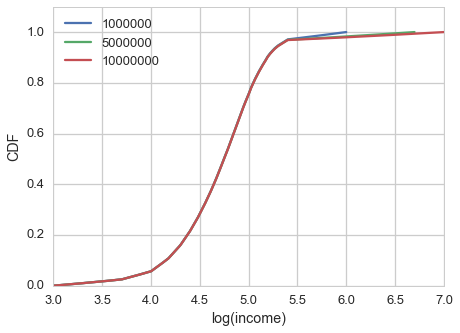
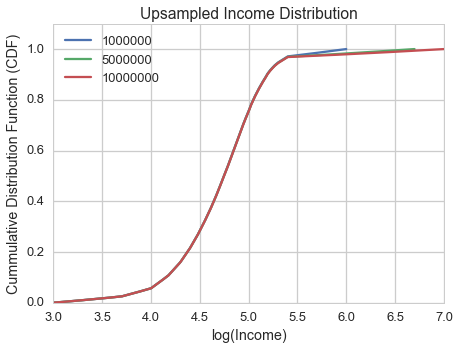
Finished question 6-1

diff --git a/statistics/6-1-household_income.md b/statistics/6-1-household_income.md
@@ -5,7 +5,7 @@ The distribution of income is famously skewed to the right. In this exercise, we
 
 The Current Population Survey (CPS) is a joint effort of the Bureau of Labor Statistics and the Census Bureau to study income and related variables. Data collected in 2013 is available from the Census Burea’s website. I downloaded hinc06.xls, which is an Excel spreadsheet with information about household income, and converted it to hinc06.csv, a CSV file you will find in the repository for this book. You will also find hinc2.py, which reads this file and transforms the data.
 
-The dataset is in the form of a series of income ranges and the number of respondents who fell in each range. The lowest range includes respondents who reported annual household income "Under \$5000." The highest range includes respondents who made "$250,000 or more."
+The dataset is in the form of a series of income ranges and the number of respondents who fell in each range. The lowest range includes respondents who reported annual household income "Under \$5,000." The highest range includes respondents who made "\$250,000 or more."
 
 To estimate mean and other statistics from these data, we have to make some assumptions about the lower and upper bounds, and how the values are distributed in each range. hinc2.py provides InterpolateSample, which shows one way to model this data. It takes a DataFrame with a column, income, that contains the upper bound of each range, and freq, which contains the number of respondents in each frame.
 
@@ -18,22 +18,26 @@ Compute the median, mean, skewness and Pearson’s skewness of the resulting sam
 This markdown file has been converted from a Jupyter notebook using [convert_notebooks_to_markdown.py](./convert_notebooks_to_markdown.py).
 
 
-# - [ ] Finish text for this question
-
 # Answer
 
+Income levels were upsampled assuming a base-10 log-linear relationship. The effect of different upper income levels (\$1,000,000, \$5,000,000, and \$10,000,000) on statistical parameters was determined.
+
+Increasing the only maximum income level during upsampling has the expected effect of increasing mean, skew, and the fraction of households with incomes below the mean. Median is invariant regardless of upper income, which is as expected since only the highest income bin is being changed and the number of samples in this bin does not vary.
+
+Pearson's skew **decreases** when the maximum income level is increased. Conceptually, this is unexpected but the likely explanation is that the standard deviation increase overwhelms the difference between the mean and median. For this reason, Pearson's skew may not be an ideal statistic for determining differences between log-linear data.
 
 
 
 
-INSERT TEXT HERE
 
-|               |   1000000 |   5000000 |   10000000 |
-|:--------------|----------:|----------:|-----------:|
-| mean          | 74278.708 | 99117.595 | 124267.397 |
-| median        | 51226.933 | 51226.933 |  51226.933 |
-| skew          |     4.950 |    10.251 |     11.604 |
-| pearsons_skew |     0.736 |     0.465 |      0.392 |
+|                 |   1000000 |    5000000 |   10000000 |
+|:----------------|----------:|-----------:|-----------:|
+| mean            | 74278.708 |  99117.595 | 124267.397 |
+| std             | 93947.314 | 309013.513 | 559610.786 |
+| median          | 51226.933 |  51226.933 |  51226.933 |
+| skew            |     4.950 |     10.251 |     11.604 |
+| pearsons_skew   |     0.736 |      0.465 |      0.392 |
+| frac_below_mean |     0.660 |      0.778 |      0.857 |
 
 
 
@@ -49,8 +53,10 @@ INSERT TEXT HERE
 
 
 ```python
+from __future__ import print_function
 import pandas as pd
 import numpy as np
+
 import matplotlib.pyplot as plt
 import seaborn as sns
 from tabulate import tabulate
@@ -60,7 +66,7 @@ from tabulate import tabulate
 ```
 
 
-The list of maximum income ranges to test.
+The base-10 log values to be used for the upper limit of income. In dollars, these values are: 1,000,000, 5,000,000, and 10,000,000.
 
 
 
@@ -69,7 +75,9 @@ log_upper = [6.0, np.log10(5.0e6), 7.0]
 ```
 
 
-Import and clean the data, convert income to a logarithmic scale for resampling.
+## Import and clean data
+
+Income levels have to be parsed and converted to a base-10 logarithmic scale for resampling.
 
 
 
@@ -97,10 +105,12 @@ data.drop(['income_str','income_low'], axis=1, inplace=True)
 data['log_upper'] = np.log10(data.income_high)
 data['log_lower'] = data.log_upper.shift(1).dropna()
 
-# Lowest yearly income amount is set to $1000 (10**3)
+# Lowest yearly income amount is set to $1000 (i.e. 10**3)
 data.loc[0, 'log_lower'] = 3.0 
 ```
 
+
+## Upsample data
 
 Resample the data using a log-linear distribution.
 
@@ -108,9 +118,9 @@ Resample the data using a log-linear distribution.
 
 ```python
 # The resampling function
-def freq_resampler(df, log_upper=None):
+def freq_upsampler(df, log_upper=None):
         
-    # This resampling method only works on Series
+    # Expanding # of rows only works on Series
     series = df.squeeze()
     
     if not np.isinf(series.log_upper):
@@ -123,7 +133,7 @@ def freq_resampler(df, log_upper=None):
 
 
 resampled_data = map(lambda y: ( data.groupby(level=0, group_keys=False)
-                                 .apply(lambda x: freq_resampler(x, y))
+                                 .apply(lambda x: freq_upsampler(x, y))
                                 ), log_upper)
 
 resampled_data = pd.concat(resampled_data, axis=1)
@@ -132,7 +142,12 @@ resampled_data.columns = map(lambda x: int(np.round(10**x, 0)), log_upper)
 ```
 
 
-Compute statistics on the results.
+## Compute statistical parameters
+
+Compute statistics (mean, median, skew, Pearson's median skew) on the results. Note that the data must be converted from their logarithmic form.
+
+Pearson's median skew is:
+$$g_p = \frac{3(\bar{x} - m)}{S}$$
 
 
 
@@ -140,10 +155,13 @@ Compute statistics on the results.
 def pearsons_skew(data):
     return 3.0*(data.mean() - data.median()) / data.std()
 
+def frac_below_mean(data):
+    return (data < data.mean()).sum() / float(data.shape[0])
+
 statistics = ( (10**resampled_data)
               .stack()
               .groupby(level=-1)
-              .agg(['mean', 'median', 'skew', pearsons_skew])
+              .agg(['mean', 'std', 'median', 'skew', pearsons_skew, frac_below_mean])
              ).T
 ```
 
@@ -159,14 +177,17 @@ print(tabulate(statistics,
 ```
 
 
-|               |   1000000 |   5000000 |   10000000 |
-|:--------------|----------:|----------:|-----------:|
-| mean          | 74278.708 | 99117.595 | 124267.397 |
-| median        | 51226.933 | 51226.933 |  51226.933 |
-| skew          |     4.950 |    10.251 |     11.604 |
-| pearsons_skew |     0.736 |     0.465 |      0.392 |
+|                 |   1000000 |    5000000 |   10000000 |
+|:----------------|----------:|-----------:|-----------:|
+| mean            | 74278.708 |  99117.595 | 124267.397 |
+| std             | 93947.314 | 309013.513 | 559610.786 |
+| median          | 51226.933 |  51226.933 |  51226.933 |
+| skew            |     4.950 |     10.251 |     11.604 |
+| pearsons_skew   |     0.736 |      0.465 |      0.392 |
+| frac_below_mean |     0.660 |      0.778 |      0.857 |
 
 
+## Visualize income distributions
 Plot the log distribution of income relative to the CDF.
 
 
@@ -186,15 +207,17 @@ sns.set_style('whitegrid')
 
 fig = plt.figure()
 fig.set_size_inches(7, 5)
+
 ax = plt.axes()
 
 _ = combined_data.stack().groupby(level=-1).plot('income', 'cdf', kind='line', ax=ax)
 
 lines, labels = ax.get_legend_handles_labels()
-ax.legend(lines, combined_data.columns.get_level_values(1).unique(),loc=0)
+ax.legend(lines, combined_data.columns.get_level_values(1).unique(), loc=0)
 _ = ax.set_ylim(0, 1.1)
-_ = ax.set_xlabel('log(income)')
-_ = ax.set_ylabel('CDF')
+_ = ax.set_xlabel('log(Income)')
+_ = ax.set_ylabel('Cummulative Distribution Function (CDF)')
+_ = ax.set_title('Upsampled Income Distribution')
 ```
 
 
